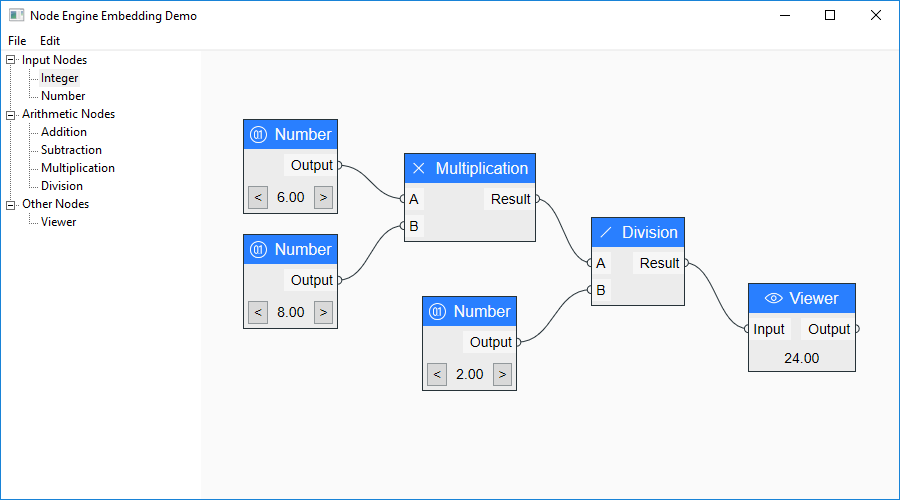
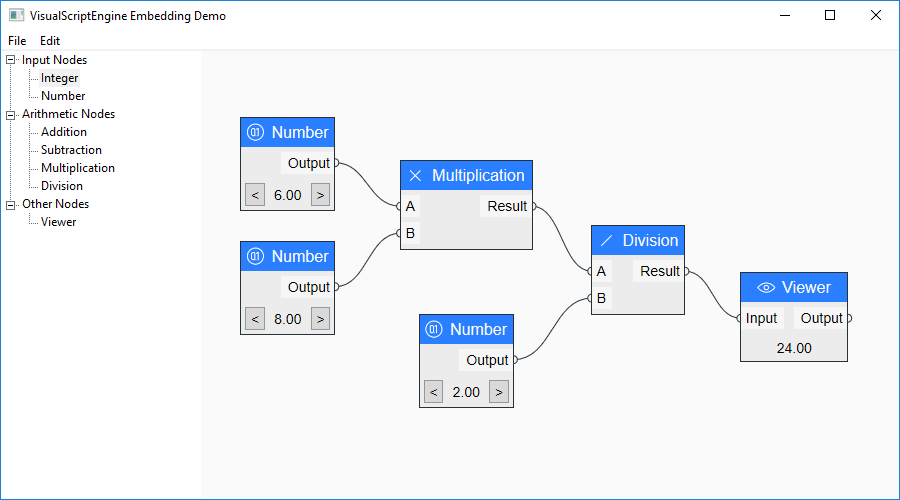
Update the title and size of embedding demos.

diff --git a/Sources/WindowsEmbeddingDemo/main.cpp b/Sources/WindowsEmbeddingDemo/main.cpp
@@ -289,11 +289,11 @@ int wWinMain (HINSTANCE hInstance, HINSTANCE /*hPrevInstance*/, LPWSTR /*lpCmdLi
 		return false;
 	}
 
-	RECT requiredRect = { 0, 0, 800, 600 };
+	RECT requiredRect = { 0, 0, 900, 500 };
 	AdjustWindowRect (&requiredRect, WS_OVERLAPPEDWINDOW, false);
 
 	HWND windowHandle = CreateWindowEx (
-		WS_EX_WINDOWEDGE | WS_CLIPCHILDREN, windowClass.lpszClassName, L"Node Engine Embedding Demo", WS_OVERLAPPEDWINDOW,
+		WS_EX_WINDOWEDGE | WS_CLIPCHILDREN, windowClass.lpszClassName, L"VisualScriptEngine Embedding Demo", WS_OVERLAPPEDWINDOW,
 		CW_USEDEFAULT, CW_USEDEFAULT, requiredRect.right - requiredRect.left, requiredRect.bottom - requiredRect.top, NULL, NULL, NULL, nullptr
 	);
 

diff --git a/Sources/WindowsEmbeddingDemo2/main.cpp b/Sources/WindowsEmbeddingDemo2/main.cpp
@@ -168,11 +168,11 @@ int wWinMain (HINSTANCE hInstance, HINSTANCE /*hPrevInstance*/, LPWSTR /*lpCmdLi
 		return false;
 	}
 
-	RECT requiredRect = { 0, 0, 800, 600 };
+	RECT requiredRect = { 0, 0, 900, 500 };
 	AdjustWindowRect (&requiredRect, WS_OVERLAPPEDWINDOW, false);
 
 	HWND windowHandle = CreateWindowEx (
-		WS_EX_WINDOWEDGE | WS_CLIPCHILDREN, windowClass.lpszClassName, L"Node Engine Embedding Demo", WS_OVERLAPPEDWINDOW,
+		WS_EX_WINDOWEDGE | WS_CLIPCHILDREN, windowClass.lpszClassName, L"VisualScriptEngine Embedding Demo", WS_OVERLAPPEDWINDOW,
 		CW_USEDEFAULT, CW_USEDEFAULT, requiredRect.right - requiredRect.left, requiredRect.bottom - requiredRect.top, NULL, NULL, NULL, nullptr
 	);
 
